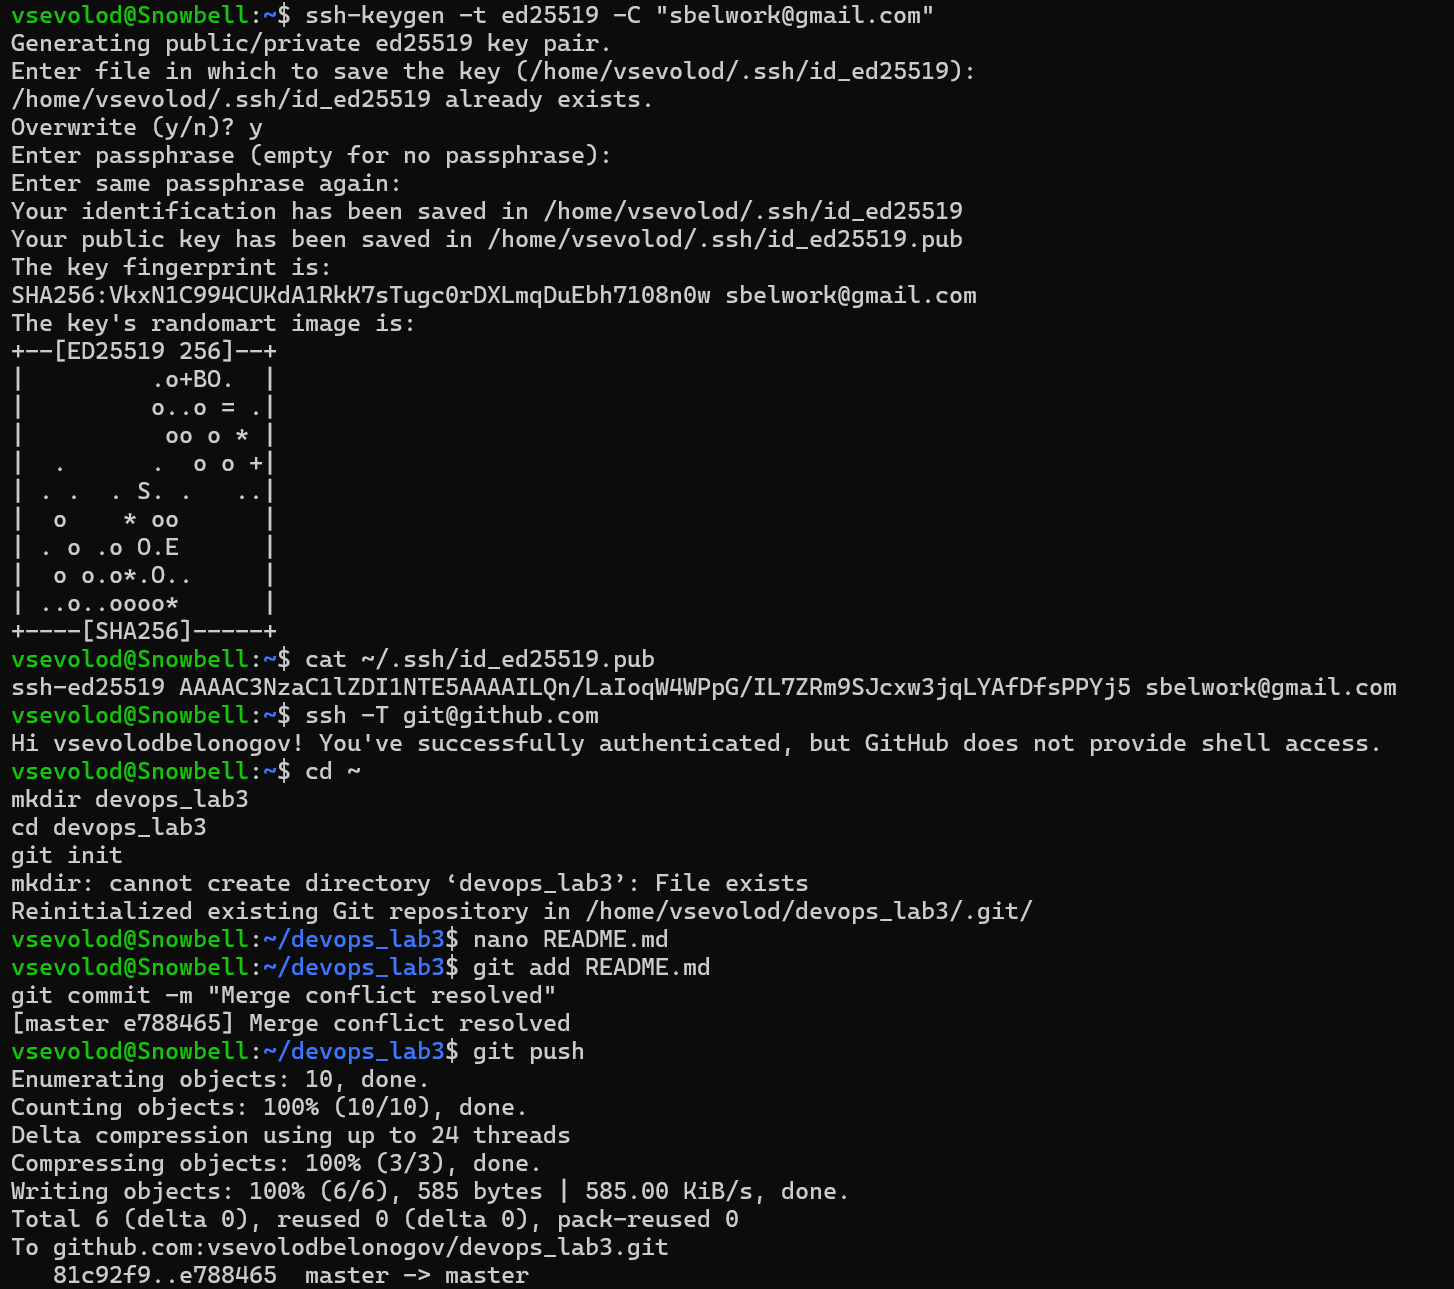
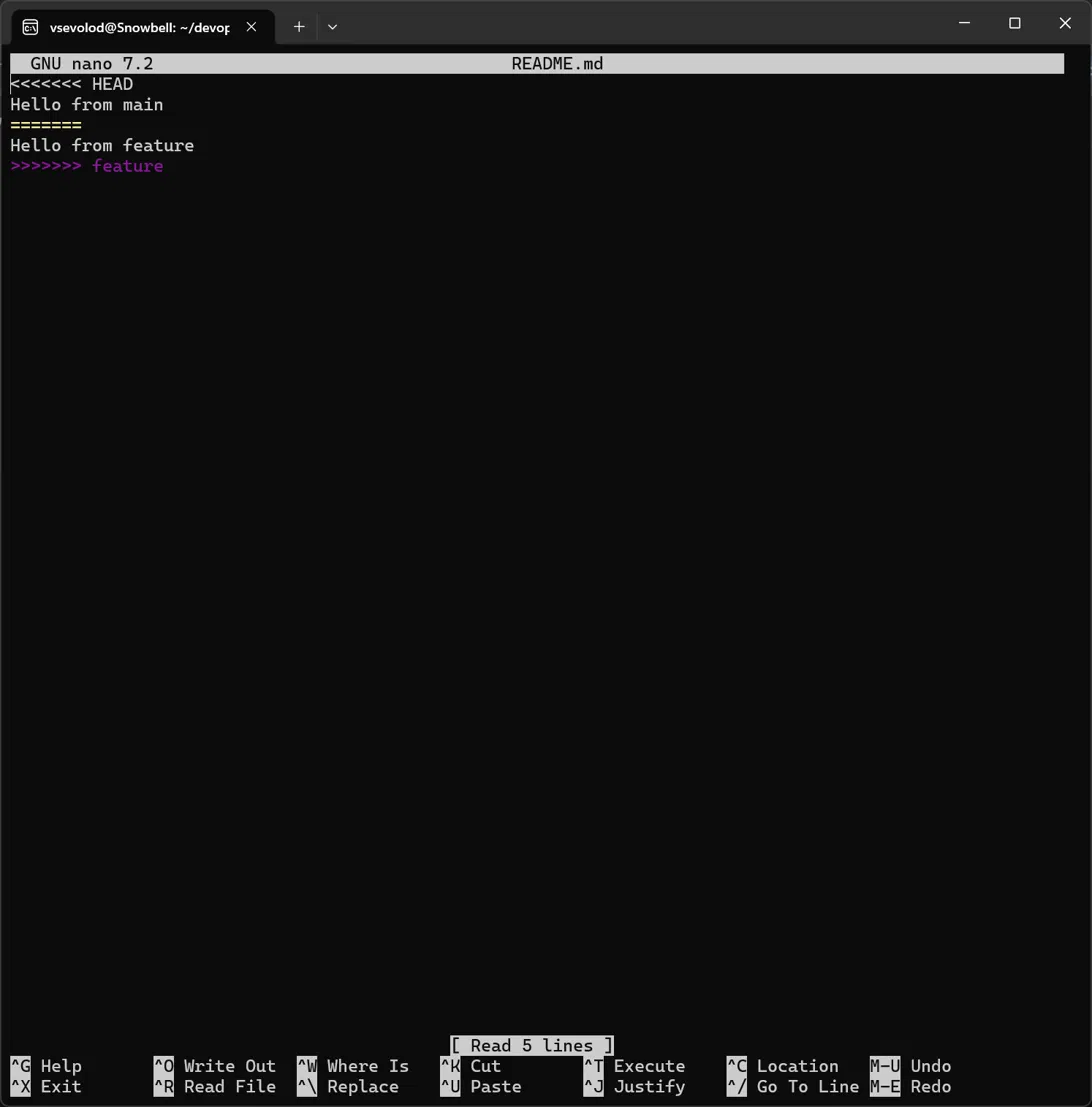
docs: updated screenshots and README

Changed region(s): [[0.0, 0.3071, 0.9652, 1.0], [0.0, 0.0, 1.0, 1.0], [0.6538, 0.9521, 0.8718, 1.0]]

diff --git a/README.md b/README.md
@@ -3,18 +3,16 @@
 **Выполнил:** vsevolodbelonogov (sbelwork@gmail.com)
 
 ## Описание работы
-1. Настройка SSH-доступа (генерация ключа).
-2. Проверка подключения к GitHub.
-3. Разрешение конфликта слияния.
-4. Проверка на GitHub и git clone.
-5. Работа с ветками (FEAT-123).
+1. Настройка SSH-доступа (генерация ключа и проверка).
+2. Разрешение конфликта слияния.
+3. Проверка результата на GitHub.
+4. Работа с ветками (FEAT-123).
 
 ## Скриншоты
-- `01_ssh.png` — Генерация SSH-ключа.
-- `02_ssh_test.png` — Проверка подключения.
-- `03_conflict.png` — Разрешение конфликта.
-- `04_github.png` — Проверка на GitHub.
-- `05_branch.png` — Создание ветки.
+- `01_ssh.png` — Генерация SSH-ключа и проверка подключения к GitHub.
+- `03_conflict.png` — Разрешение конфликта в редакторе nano.
+- `04_github.png` — Результат на GitHub (две ветки, история коммитов).
+- `05_branch.png` — Создание ветки FEAT-123 и отправка на сервер.
 
 ## Вывод
 Все команды Git освоены, SSH настроен, конфликты и ветки отработаны.
